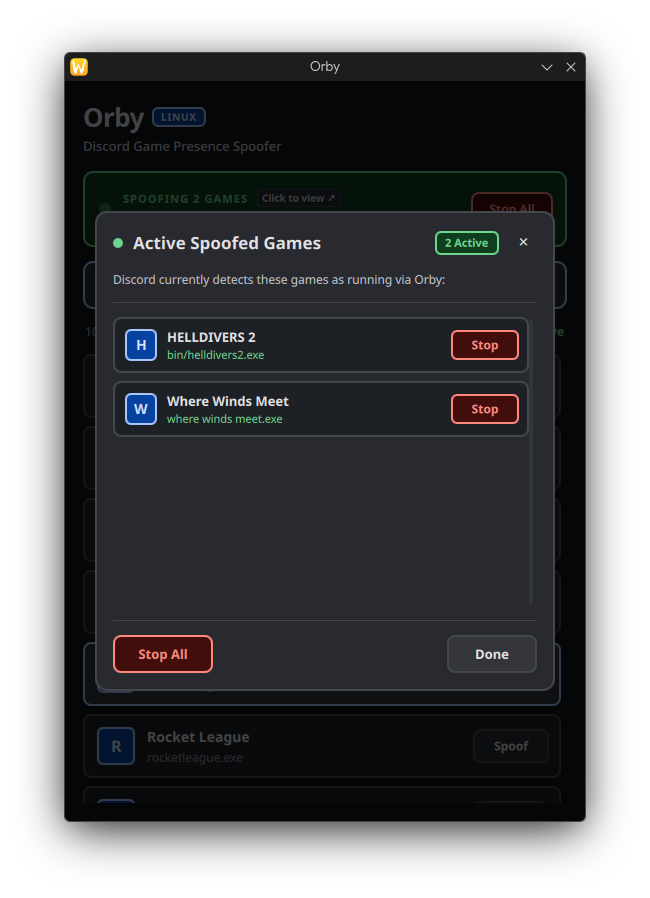
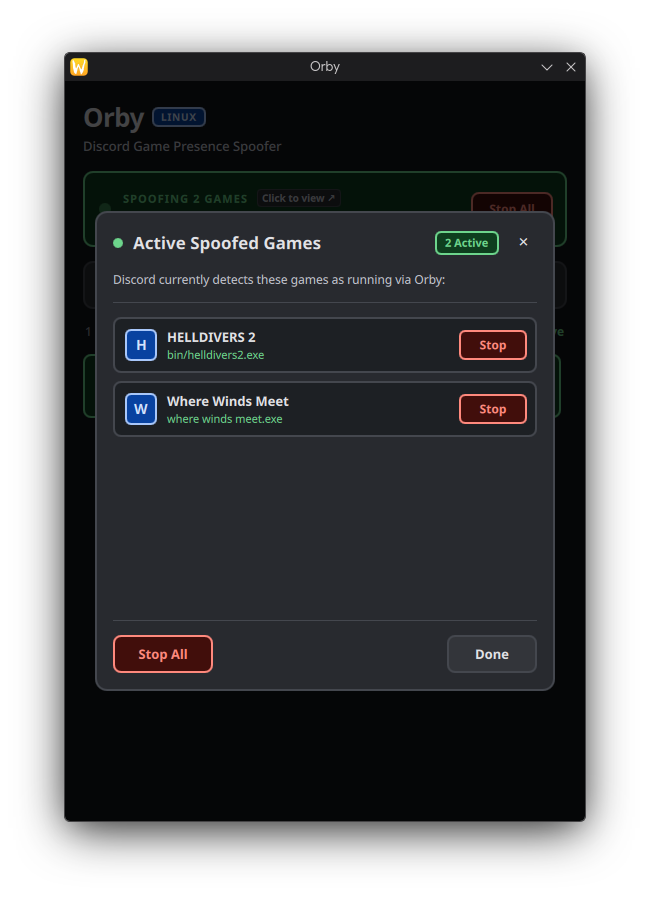
minor ui fix

diff --git a/qml/Main.qml b/qml/Main.qml
@@ -817,7 +817,7 @@ Window {
                     color: md.outlineVariant
                 }
 
-                // Active games scrollable list with dedicated scrollbar gutter
+                // Active games scrollable list
                 Rectangle {
                     Layout.fillWidth: true
                     Layout.fillHeight: true
@@ -827,27 +827,12 @@ Window {
                     ListView {
                         id: activeListView
                         anchors.fill: parent
-                        anchors.rightMargin: 8
                         spacing: 8
                         model: spoofer.spoofedProcesses
                         boundsBehavior: Flickable.StopAtBounds
 
-                        ScrollBar.vertical: ScrollBar {
-                            id: dialogScrollBar
-                            policy: ScrollBar.AsNeeded
-                            anchors.right: parent.right
-                            anchors.rightMargin: -6
-                            contentItem: Rectangle {
-                                implicitWidth: 4
-                                radius: 2
-                                color: md.outlineVariant
-                                opacity: dialogScrollBar.active ? 0.9 : 0.4
-                                Behavior on opacity { NumberAnimation { duration: 150 } }
-                            }
-                        }
-
                         delegate: Rectangle {
-                            width: activeListView.width
+                            width: ListView.view.width
                             height: 56
                             radius: 8
                             color: md.surfaceContainer
